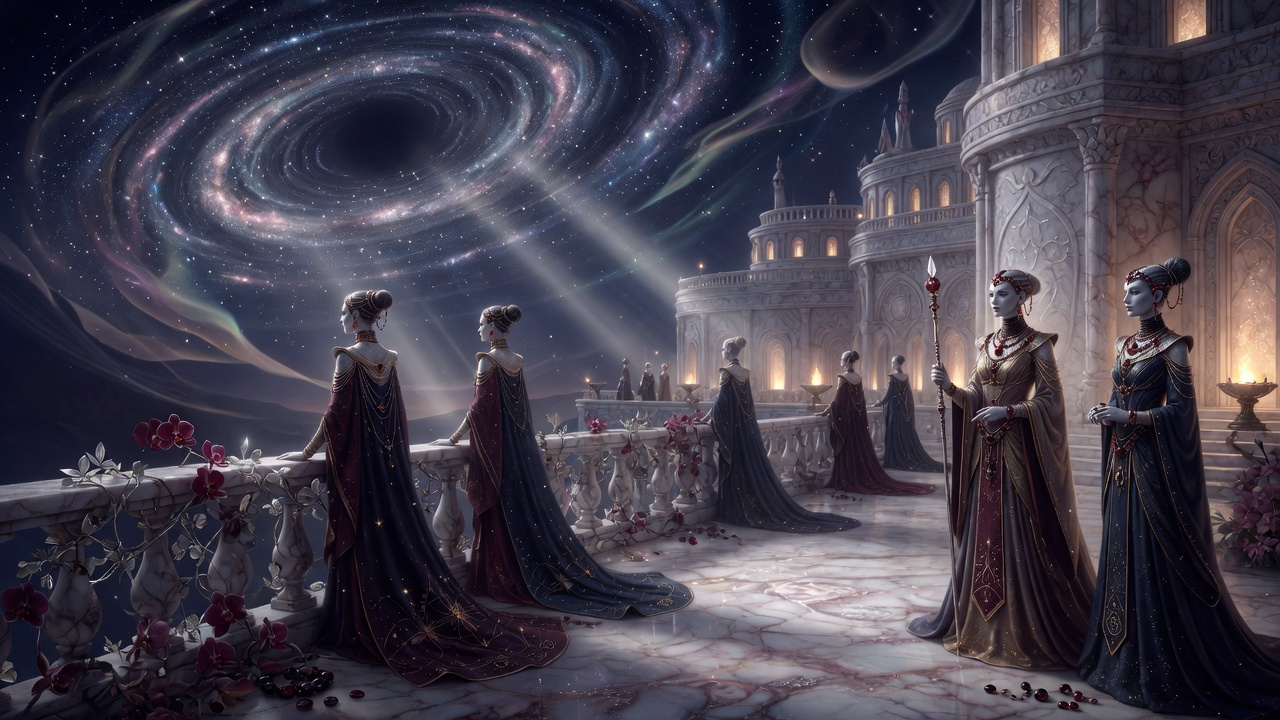
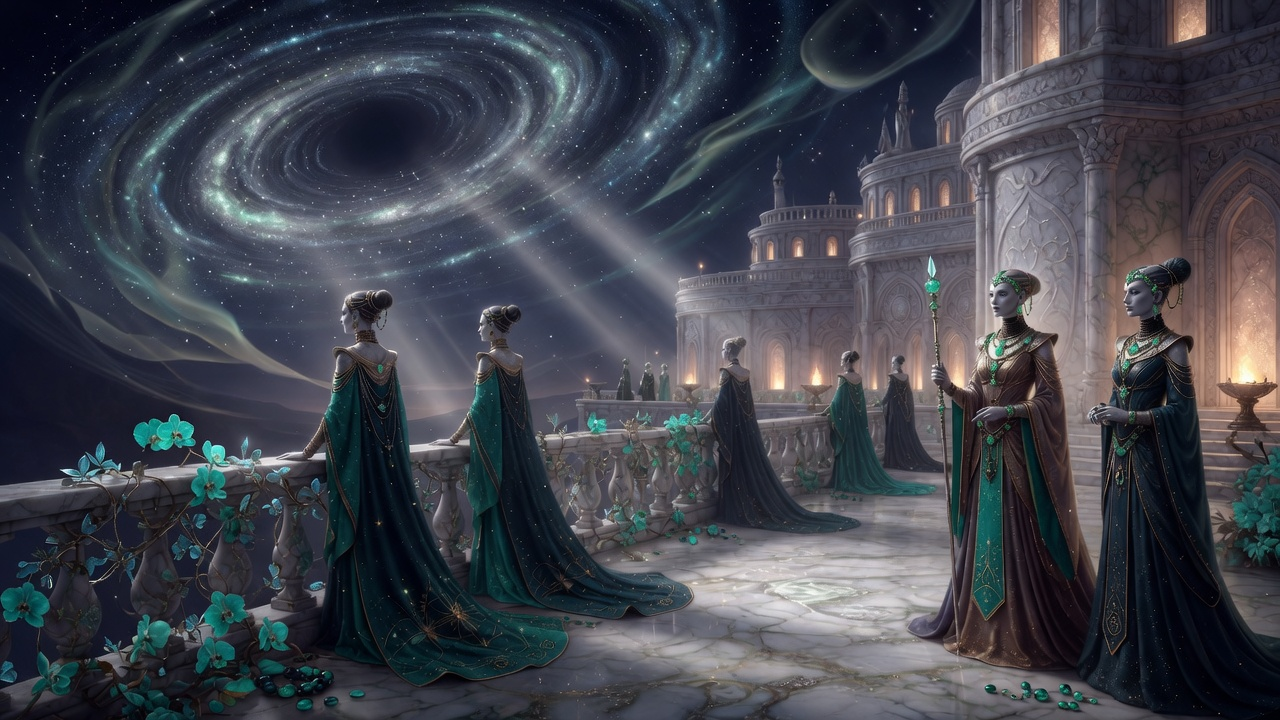
Regenerate fourth-pass FAIL plates and fix red bloodstone.
Replace the thirteen book-contradicting portraits and the Ratarajan card-mount plate, and recolour Imperial Celestial bloodstone to turquoise and gold across the sixteen QUERY subjects plus the Celestials faction plate.

diff --git a/exodus-the-archimedes-engine/docs/visual-briefs/IMAGE-REVIEW.md b/exodus-the-archimedes-engine/docs/visual-briefs/IMAGE-REVIEW.md
@@ -33,11 +33,13 @@ everything below it concerns the first. Third-pass slugs are listed under [Third
 | Verdict | Count | Meaning |
 |---|---:|---|
 | **PASS** | 45 | First, second and third pass after regen, less everything the fourth pass re-opened |
-| **QUERY** | 16 | Imperial Celestial portraits not yet individually recounted. Every one checked so far has red bloodstone, and these share the generator and brief wording — assume the same until each is opened |
-| **FAIL** | 13 | **Open.** `dejean`, `olomo`, `josias-aponi`, `stethos-thierry`, `helena-chione`, `eleanor-aponi`, `makaio`, `lord-gahiji`, `elsbeth-mcquillan`, `thyra`, `carolien-amaia`, `valdier` — contradict book text recovered in the fourth pass; `ratarajan-dominion` — card-mount border, found in the third-pass eye-pass |
+| **QUERY** | 16 | Bloodstone recolour shipped 26 July 2026 (turquoise/gold); still need individual eye-pass after recolour |
+| **FAIL** | 13 | **Art regenerated 26 July 2026** against book text — see regeneration log; re-eye-pass before restoring PASS tallies |
 
 45 + 16 + 13 = 74. The fourth pass is the reason the signed-off count fell from 67; nothing regressed
-in the art, the standard it is measured against changed from the briefs to the book.
+in the art, the standard it is measured against changed from the briefs to the book. Replacement
+files for all 13 FAIL subjects, the 16 QUERY Celestials, and `factions/celestials.jpg` are on disk
+as of 26 July 2026.
 
 Historical first-pass tally (before regen): 37 pass · 3 query · 6 fail. Detail of that pass is kept below for process lessons; **shipped files are the regenerations** listed under [Regeneration log](#regeneration-log).
 
@@ -423,6 +425,30 @@ reads ~eight under perspective. **PASS** as illustration of the atypical hull.
 body with **exactly five eyes**, elongated non-Crown face, merchant-archon finery, nurture-chamber
 context. Prior plate was a two-eyed humanoid and wrong for the clade. Pronouns corrected she/her in
 generators. **PASS** — eye count verified by eye.
+
+**2026-07-26 (fourth-pass regen).** Regenerated all 13 open FAILs against recovered book text, then
+recoloured bloodstone on the 16 QUERY Imperial Celestials (plus `factions/celestials.jpg`) from red
+to **turquoise and gold**.
+
+| Slug | Regen check |
+|---|---|
+| `dejean` | Woman captain, grey hair, haggard; blank name tapes |
+| `olomo` | Four eyes, shoulder-level skull cones, blue-green reptilian skin, four arms |
+| `josias-aponi` | Thick full beard, grey-blue eyes; no graffiti/slogans |
+| `stethos-thierry` | Scarlet-and-grey robes, turquoise-gold bloodstone petals, spine connection bulb |
+| `helena-chione` | Intense green eyes; gold-and-turquoise bloodstone (not crimson) |
+| `eleanor-aponi` | Dark fringe, plain bulkhead; no stencil lettering |
+| `makaio` | Late-stage skull/cheek bloodstone + scalloped horns in turquoise/gold; toga; rigid face |
+| `lord-gahiji` | Ill-fitting grey-silver robes; black-and-green bloodstone cap |
+| `elsbeth-mcquillan` | Light-grey cymech sphere eyes; no uniform lettering |
+| `thyra` | Braids kept; turquoise-gold bloodstone; green eyes |
+| `carolien-amaia` | Turquoise-gold bloodstone; no serpent clasp |
+| `valdier` | Turquoise-gold collar; caption bar removed |
+| `ratarajan-dominion` | Full-bleed plate; parchment card-mount gone |
+| QUERY 16 + `celestials` | Bloodstone recolour pass only (composition retained) |
+
+Fourth-pass FAIL and QUERY tallies should be re-eye-checked before claiming PASS on every row;
+structural gates are green.
 
 | Slug | Prior defect | Regen check |
 |---|---|---|
